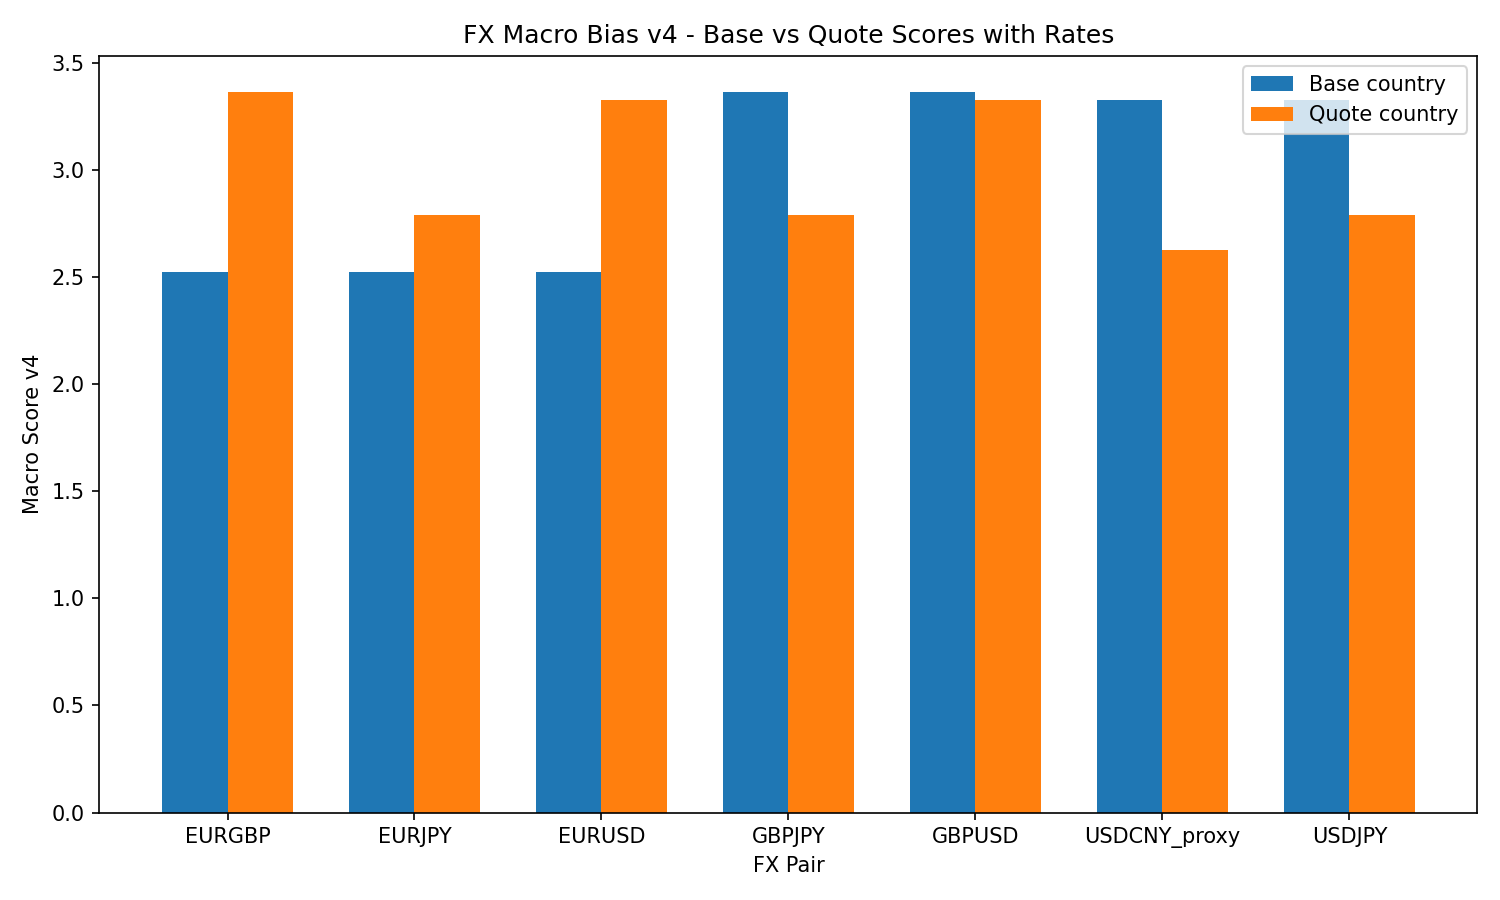
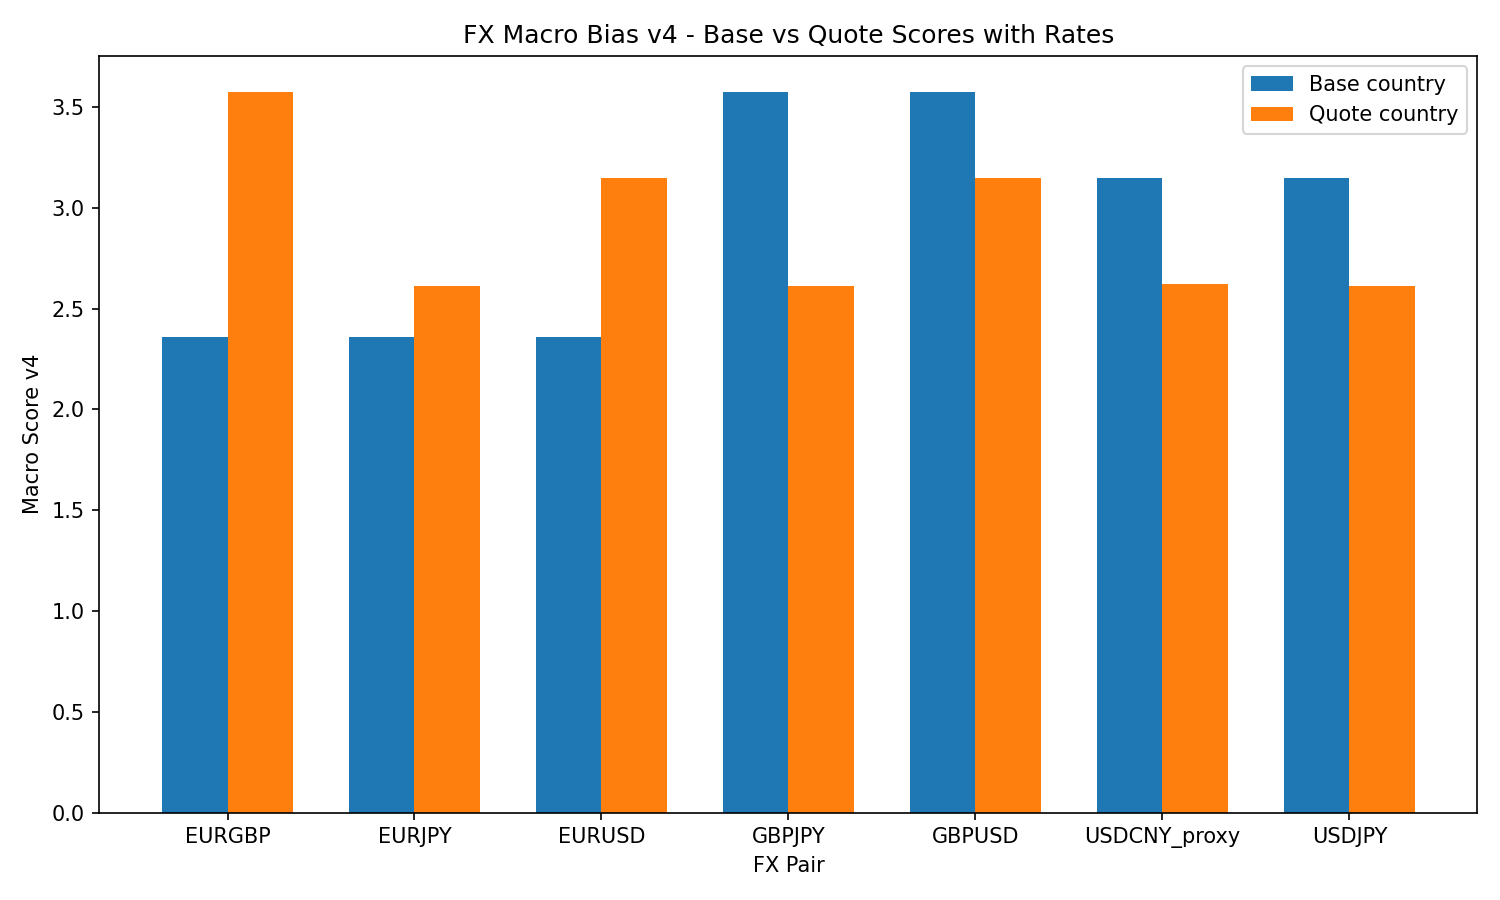
Add bond yield layer to FX macro model

diff --git a/scripts/macro/32_add_bond_yields_to_rates_snapshot.py b/scripts/macro/32_add_bond_yields_to_rates_snapshot.py
@@ -1,0 +1,69 @@
+from pathlib import Path
+
+import pandas as pd
+
+
+PROJECT_ROOT = Path(__file__).resolve().parents[2]
+
+RATES_FILE = PROJECT_ROOT / "macro_data" / "processed" / "rates_yields_snapshot.csv"
+OUTPUT_FILE = PROJECT_ROOT / "macro_data" / "processed" / "rates_yields_snapshot_with_bonds.csv"
+
+
+BOND_YIELD_UPDATES = {
+    "United Kingdom": {
+        "gov_2y_yield": 4.46,
+        "gov_10y_yield": 5.06,
+    },
+    "United States": {
+        "gov_2y_yield": None,
+        "gov_10y_yield": None,
+    },
+    "Germany": {
+        "gov_2y_yield": 2.62,
+        "gov_10y_yield": 3.05,
+    },
+    "Japan": {
+        "gov_2y_yield": 1.38,
+        "gov_10y_yield": 2.49,
+    },
+    "China, People's Republic of": {
+        "gov_2y_yield": None,
+        "gov_10y_yield": None,
+    },
+}
+
+
+def main() -> None:
+    df = pd.read_csv(RATES_FILE)
+
+    df.columns = df.columns.str.lower().str.strip()
+
+    required_cols = ["country", "policy_rate", "gov_2y_yield", "gov_10y_yield"]
+
+    for col in required_cols:
+        if col not in df.columns:
+            df[col] = None
+
+    for country, updates in BOND_YIELD_UPDATES.items():
+        mask = df["country"] == country
+
+        if not mask.any():
+            print(f"[WARN] Country not found in rates file: {country}")
+            continue
+
+        for col, value in updates.items():
+            if value is not None:
+                df.loc[mask, col] = value
+
+    df["yield_curve_10y_2y"] = df["gov_10y_yield"] - df["gov_2y_yield"]
+
+    df.to_csv(OUTPUT_FILE, index=False)
+
+    print(f"\nSaved updated rates/yields snapshot to: {OUTPUT_FILE}")
+
+    print("\nRates/yields snapshot preview:")
+    print(df.to_string(index=False))
+
+
+if __name__ == "__main__":
+    main()
